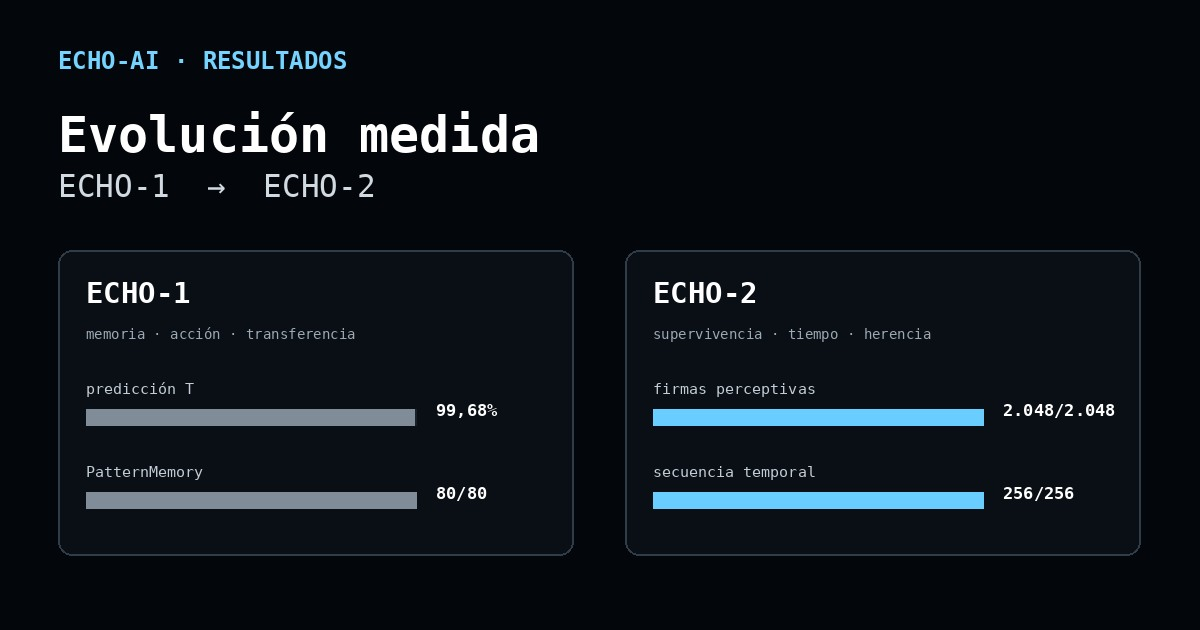
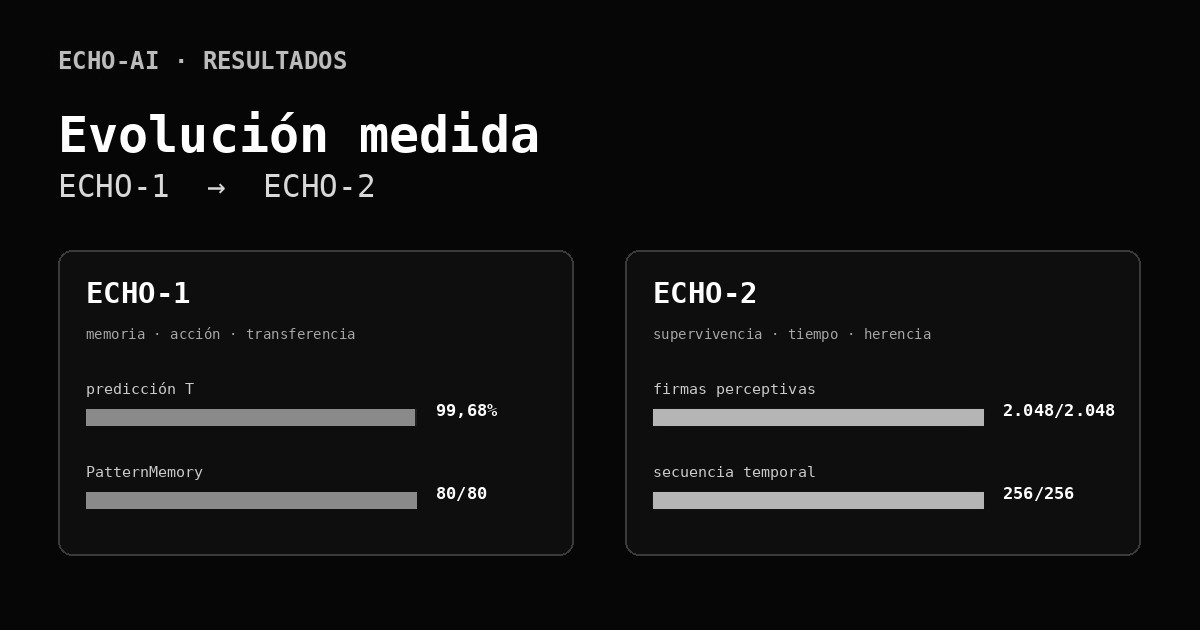
Restore monochrome ECHO results design

Changed region(s): [[0.5242, 0.6333, 0.8325, 0.6937], [0.5242, 0.754, 0.8325, 0.8143], [0.0308, 0.0603, 0.3083, 0.1206]]

diff --git a/src/styles.css b/src/styles.css
@@ -369,42 +369,42 @@ button { font-family: inherit; }
 .release-card {
   min-width: 0;
   padding: 22px;
-  border: 1px solid #303944;
-  background: #05080b;
+  border: 1px solid #303030;
+  background: #050505;
 }
 
 .release-card.is-echo2 {
-  border-color: #31566a;
-  background: linear-gradient(145deg, #071018, #05080b 62%);
+  border-color: #666;
+  background: linear-gradient(145deg, #111, #050505 62%);
 }
 
 .release-card-head { display: flex; align-items: center; justify-content: space-between; gap: 16px; }
 .release-card-head h2 { margin: 0; font-size: 1.35rem; }
-.release-card-head span { color: #8bd8ff; font-size: 10px; letter-spacing: .08em; text-transform: uppercase; }
-.release-card > p { min-height: 4.8em; color: #bfc7cd; text-align: left; }
-.release-card dl { display: grid; grid-template-columns: repeat(2, minmax(0, 1fr)); gap: 1px; margin: 20px 0 0; background: #26313a; }
-.release-card dl div { display: flex; flex-direction: column-reverse; min-height: 94px; padding: 13px; background: #070b0f; }
-.release-card dt { color: #8997a1; font-size: 10px; margin-top: auto; padding-top: 10px; }
+.release-card-head span { color: #ddd; font-size: 10px; letter-spacing: .08em; text-transform: uppercase; }
+.release-card > p { min-height: 4.8em; color: #c7c7c7; text-align: left; }
+.release-card dl { display: grid; grid-template-columns: repeat(2, minmax(0, 1fr)); gap: 1px; margin: 20px 0 0; background: #303030; }
+.release-card dl div { display: flex; flex-direction: column-reverse; min-height: 94px; padding: 13px; background: #080808; }
+.release-card dt { color: #999; font-size: 10px; margin-top: auto; padding-top: 10px; }
 .release-card dd { margin: 0; color: #fff; font-size: clamp(1rem, 2vw, 1.35rem); font-weight: 600; overflow-wrap: anywhere; }
 
 .evolution-chart-grid { display: grid; grid-template-columns: repeat(2, minmax(0, 1fr)); gap: 12px; margin-top: 1.5rem; }
-.evolution-chart { min-width: 0; padding: 18px; border: 1px solid #29333b; background: #04070a; }
+.evolution-chart { min-width: 0; padding: 18px; border: 1px solid #303030; background: #050505; }
 .evolution-chart.is-wide { grid-column: 1 / -1; }
-.evolution-chart h3 { min-height: 2.8em; margin: 0 0 17px; color: #eaf4fa; }
+.evolution-chart h3 { min-height: 2.8em; margin: 0 0 17px; color: #eee; }
 .evolution-ratio { display: grid; grid-template-columns: minmax(0, 1fr) 82px; gap: 7px 12px; margin-top: 15px; }
-.evolution-ratio > span { min-width: 0; color: #aebbc4; font-size: 10px; text-align: left; }
-.evolution-ratio > i { grid-column: 1; display: block; height: 13px; overflow: hidden; background: #151c22; }
-.evolution-ratio > i b { display: block; height: 100%; min-width: 1px; background: #82909a; }
-.evolution-ratio > i b.is-echo2 { background: #73d0ff; box-shadow: 0 0 14px rgba(115, 208, 255, .34); }
+.evolution-ratio > span { min-width: 0; color: #bbb; font-size: 10px; text-align: left; }
+.evolution-ratio > i { grid-column: 1; display: block; height: 13px; overflow: hidden; background: #1a1a1a; }
+.evolution-ratio > i b { display: block; height: 100%; min-width: 1px; background: #888; }
+.evolution-ratio > i b.is-echo2 { background: #fff; box-shadow: 0 0 14px rgba(255, 255, 255, .22); }
 .evolution-ratio > strong { grid-column: 2; grid-row: 1 / span 2; align-self: end; color: #fff; font-size: 11px; text-align: right; }
 
 .phase-results { display: grid; grid-template-columns: repeat(2, minmax(0, 1fr)); gap: 8px; margin-top: 1.5rem; }
-.phase-results article { display: grid; grid-template-columns: 22px minmax(0, 1fr); padding: 15px; border: 1px solid #29333b; background: #04070a; }
-.phase-results article > span { grid-row: 1 / span 2; color: #74d2ff; }
+.phase-results article { display: grid; grid-template-columns: 22px minmax(0, 1fr); padding: 15px; border: 1px solid #303030; background: #050505; }
+.phase-results article > span { grid-row: 1 / span 2; color: #fff; }
 .phase-results h3 { margin: 0; min-height: auto; color: #fff; font-size: 12px; }
-.phase-results p { margin: 9px 0 0; color: #9daab3; font-size: 11px; text-align: left; }
+.phase-results p { margin: 9px 0 0; color: #aaa; font-size: 11px; text-align: left; }
 .results-downloads { display: flex; flex-wrap: wrap; gap: 9px; margin-top: 1.25rem; }
-.bench-download.is-echo2 { border-color: #47788f; color: #dff5ff; }
+.bench-download.is-echo2 { border-color: #777; color: #fff; }
 
 .bench-kicker {
   display: block;
